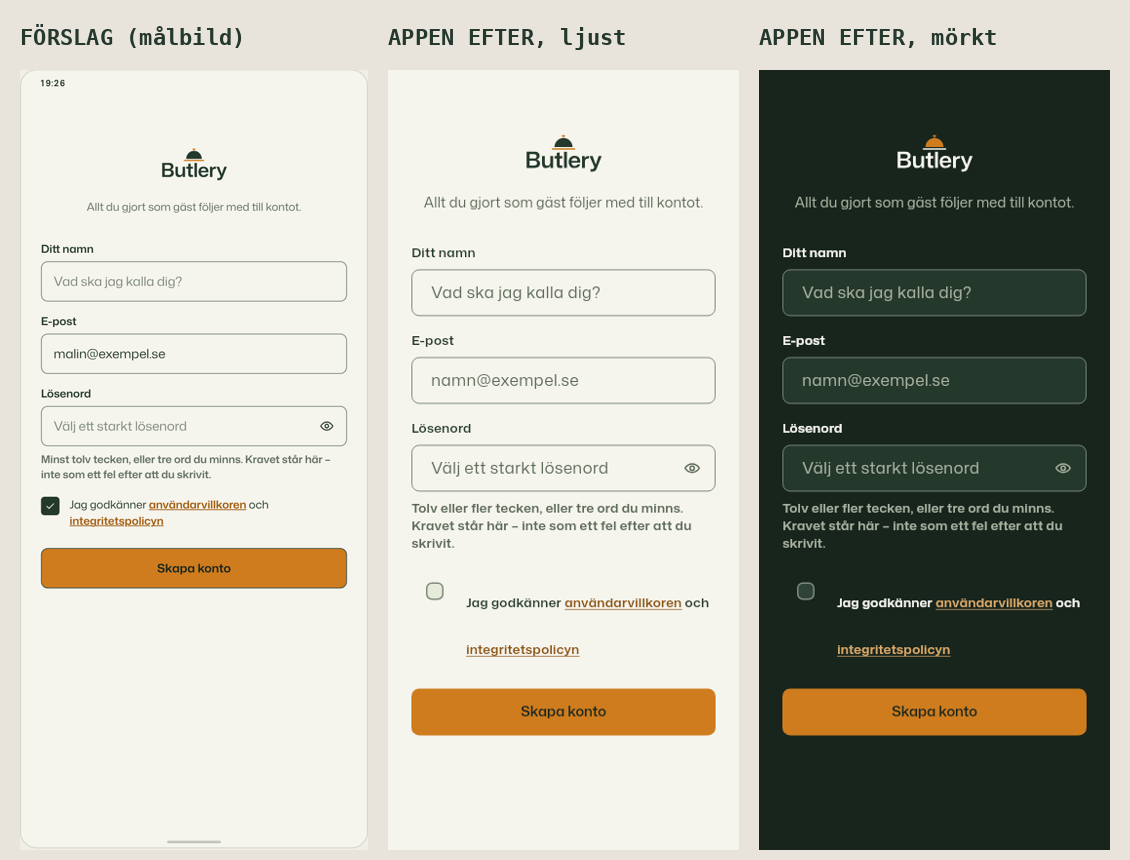
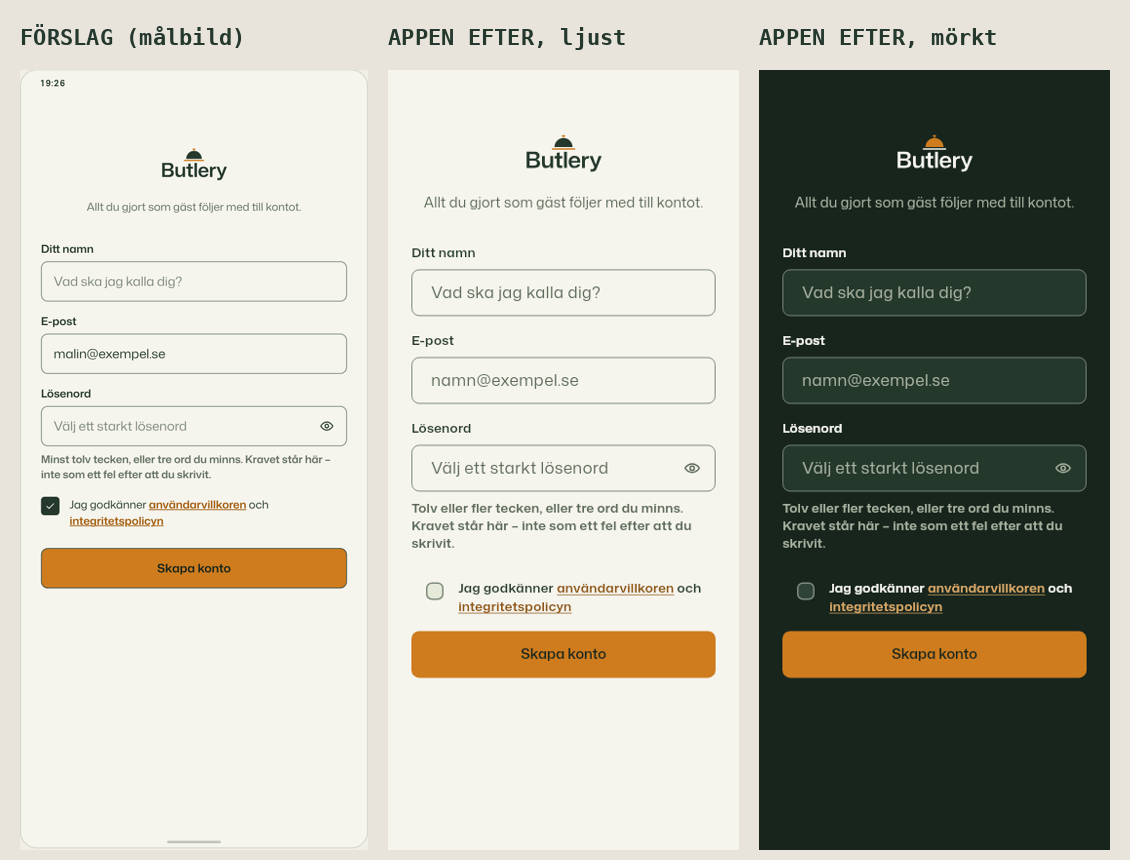
Spår 8: villkorsraden håller texten på en rad, länkvariant för löpande text
Länkarna i villkorsraden hade träffyta lika hög som minimiboxen, så raden blev hög och
texten hamnade långt under kryssrutan. ButleryLink.inline behåller radens höjd och
ringen följer länken; övriga länkar är oförändrade. Bilderna 67 och 68 är renderade om.

Tests-removed: none

Claude-Session: https://claude.ai/code/session_017i94GUuLBGR2uSY4BK26ea

Changed region(s): [[0.3407, 0.6651, 0.6504, 0.8767], [0.6814, 0.6651, 0.9602, 0.8767]]

diff --git a/lib/widgets/common/butlery_link.dart b/lib/widgets/common/butlery_link.dart
@@ -5,8 +5,8 @@
 // CSR::ROLE::link::FOCUSED; tokens.json touchTarget och focusRing;
 // tillgänglighetshandoff HA285-A).
 //
-// En länk i löpande text blir lika hög som träffytan, så raden den står på
-// blir högre. Texten står kvar på radens baslinje.
+// En länk med egen rad blir lika hög som träffytan. En länk i en mening
+// (ButleryLink.inline) behåller radens höjd.
 
 import 'package:flutter/material.dart';
 import 'package:flutter/rendering.dart';
@@ -19,7 +19,7 @@ import 'package:butlery/widgets/common/press_fill.dart';
 /// to a screen reader.
 ///
 /// [child] carries the link's look (text.link and an underline). Inside
-/// running text, put it in a [WidgetSpan] with
+/// running text, use [ButleryLink.inline] in a [WidgetSpan] with
 /// `PlaceholderAlignment.baseline`.
 class ButleryLink extends StatelessWidget {
   const ButleryLink({
@@ -28,7 +28,19 @@ class ButleryLink extends StatelessWidget {
     this.semanticLabel,
     this.surface = PressSurface.base,
     super.key,
-  });
+  }) : inline = false;
+
+  /// A link inside a sentence. It keeps the line's height instead of the
+  /// minimum box; WCAG 2.2 exempts a link in running text from the size rule.
+  const ButleryLink.inline({
+    required this.onTap,
+    required this.child,
+    this.semanticLabel,
+    this.surface = PressSurface.base,
+    super.key,
+  }) : inline = true;
+
+  final bool inline;
 
   final VoidCallback? onTap;
   final Widget child;
@@ -42,6 +54,7 @@ class ButleryLink extends StatelessWidget {
   @override
   Widget build(BuildContext context) {
     return ButleryControlFocus(
+      enforceMinSize: !inline,
       child: PressFill(
         surface: surface,
         child: InkWell(

diff --git a/test/widget/views/auth/auth_view_legal_links_test.dart b/test/widget/views/auth/auth_view_legal_links_test.dart
@@ -23,6 +23,8 @@ import 'package:butlery/core/providers/application_provider.dart' as prod;
 import 'package:butlery/services/auth_service.dart';
 import 'package:butlery/viewmodels/auth_viewmodel.dart';
 import 'package:butlery/views/auth_view.dart';
+import 'package:butlery/widgets/auth/terms_consent_row.dart';
+import 'package:butlery/widgets/common/butlery_link.dart';
 
 import '../../../infrastructure/di/test_service_locator.dart';
 import '../../../infrastructure/factories/mock_factory.dart';
@@ -334,6 +336,30 @@ void main() {
       await tester.pumpAndSettle(_kPumpCap);
       expectActivatable(tester, tosLink);
       handle.dispose();
+    });
+
+    testWidgets('the consent links keep the sentence on its own line height', (
+      tester,
+    ) async {
+      await pumpRegisterMode(tester);
+
+      final links = find.descendant(
+        of: find.byType(TermsConsentRow),
+        matching: find.byType(ButleryLink),
+      );
+      expect(links, findsNWidgets(2));
+      for (final link in links.evaluate()) {
+        expect(
+          tester.getSize(find.byWidget(link.widget)).height,
+          lessThan(_kMinTapTarget),
+          reason: 'a link in running text does not stretch its line',
+        );
+      }
+      expect(
+        tester.getSize(find.byType(TermsConsentRow)).height,
+        lessThan(_kMinTapTarget * 1.5),
+        reason: 'the row is the box and the sentence, not a tall link line',
+      );
     });
 
     testWidgets('consent checkboxes provide a >=48dp tap target', (

diff --git a/lib/widgets/common/butlery_control_focus.dart b/lib/widgets/common/butlery_control_focus.dart
@@ -40,11 +40,16 @@ class ButleryControlFocus extends StatelessWidget {
   const ButleryControlFocus({
     required this.child,
     this.borderRadius = BorderRadius.zero,
+    this.enforceMinSize = true,
     super.key,
   });
 
   /// The control.
   final Widget child;
+
+  /// False for a control that stands inside a line of text: the ring then
+  /// follows [child] and the line keeps its own height.
+  final bool enforceMinSize;
 
   /// The wrapper's corner radius. The ring runs parallel to it.
   final BorderRadius borderRadius;
@@ -98,13 +103,15 @@ class ButleryControlFocus extends StatelessWidget {
         borderRadius: borderRadius,
         // A minimum only: tight constraints from the parent (a tab in an
         // Expanded) still reach the control unchanged.
-        child: ConstrainedBox(
-          constraints: const BoxConstraints(
-            minWidth: minSize,
-            minHeight: minSize,
-          ),
-          child: child,
-        ),
+        child: enforceMinSize
+            ? ConstrainedBox(
+                constraints: const BoxConstraints(
+                  minWidth: minSize,
+                  minHeight: minSize,
+                ),
+                child: child,
+              )
+            : child,
       ),
     );
   }

diff --git a/lib/widgets/auth/terms_consent_row.dart b/lib/widgets/auth/terms_consent_row.dart
@@ -45,10 +45,8 @@ class TermsConsentRow extends StatelessWidget {
             ),
           ),
         ),
-        const SizedBox(width: AppDimensions.space8),
         Expanded(
-          // Links are baseline WidgetSpans in one sentence: ButleryLink keeps
-          // its hit area. The words around them toggle the box.
+          // The words around the links toggle the box.
           child: Semantics(
             checked: accepted,
             child: GestureDetector(
@@ -94,7 +92,7 @@ class TermsConsentRow extends StatelessWidget {
   }) => WidgetSpan(
     alignment: PlaceholderAlignment.baseline,
     baseline: TextBaseline.alphabetic,
-    child: ButleryLink(
+    child: ButleryLink.inline(
       semanticLabel: label,
       onTap: () => Navigator.pushNamed(context, route),
       child: Text(text, style: _linkStyle(context)),

diff --git a/design/fas0/andrade-filer.md b/design/fas0/andrade-filer.md
@@ -721,8 +721,8 @@ Därtill `fas0/andrade-filer.md`, som inte kan bära sin egen hash.
[10 lines of base64/hex data omitted]
